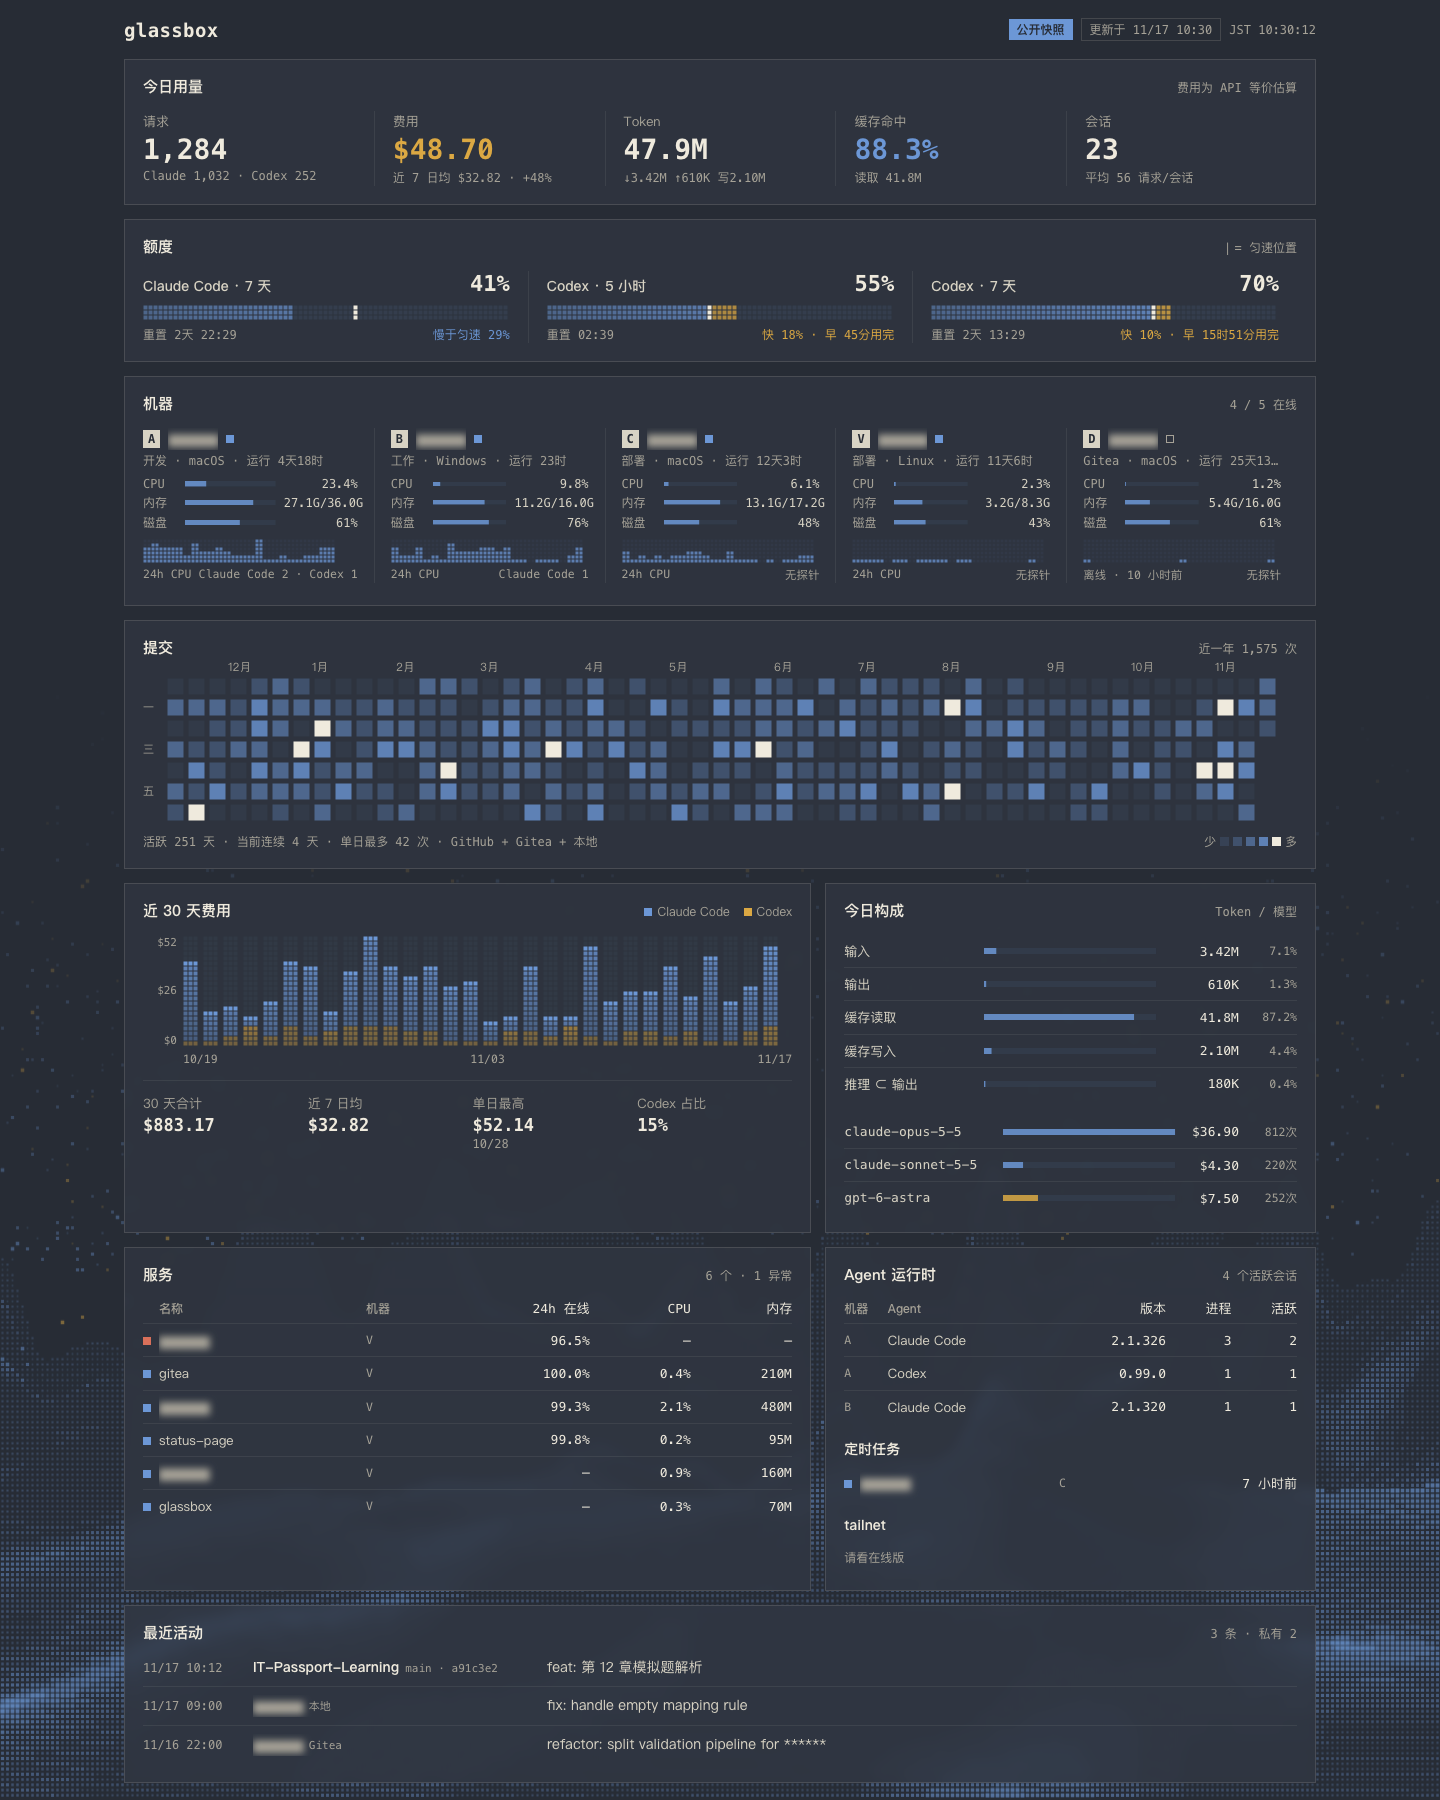
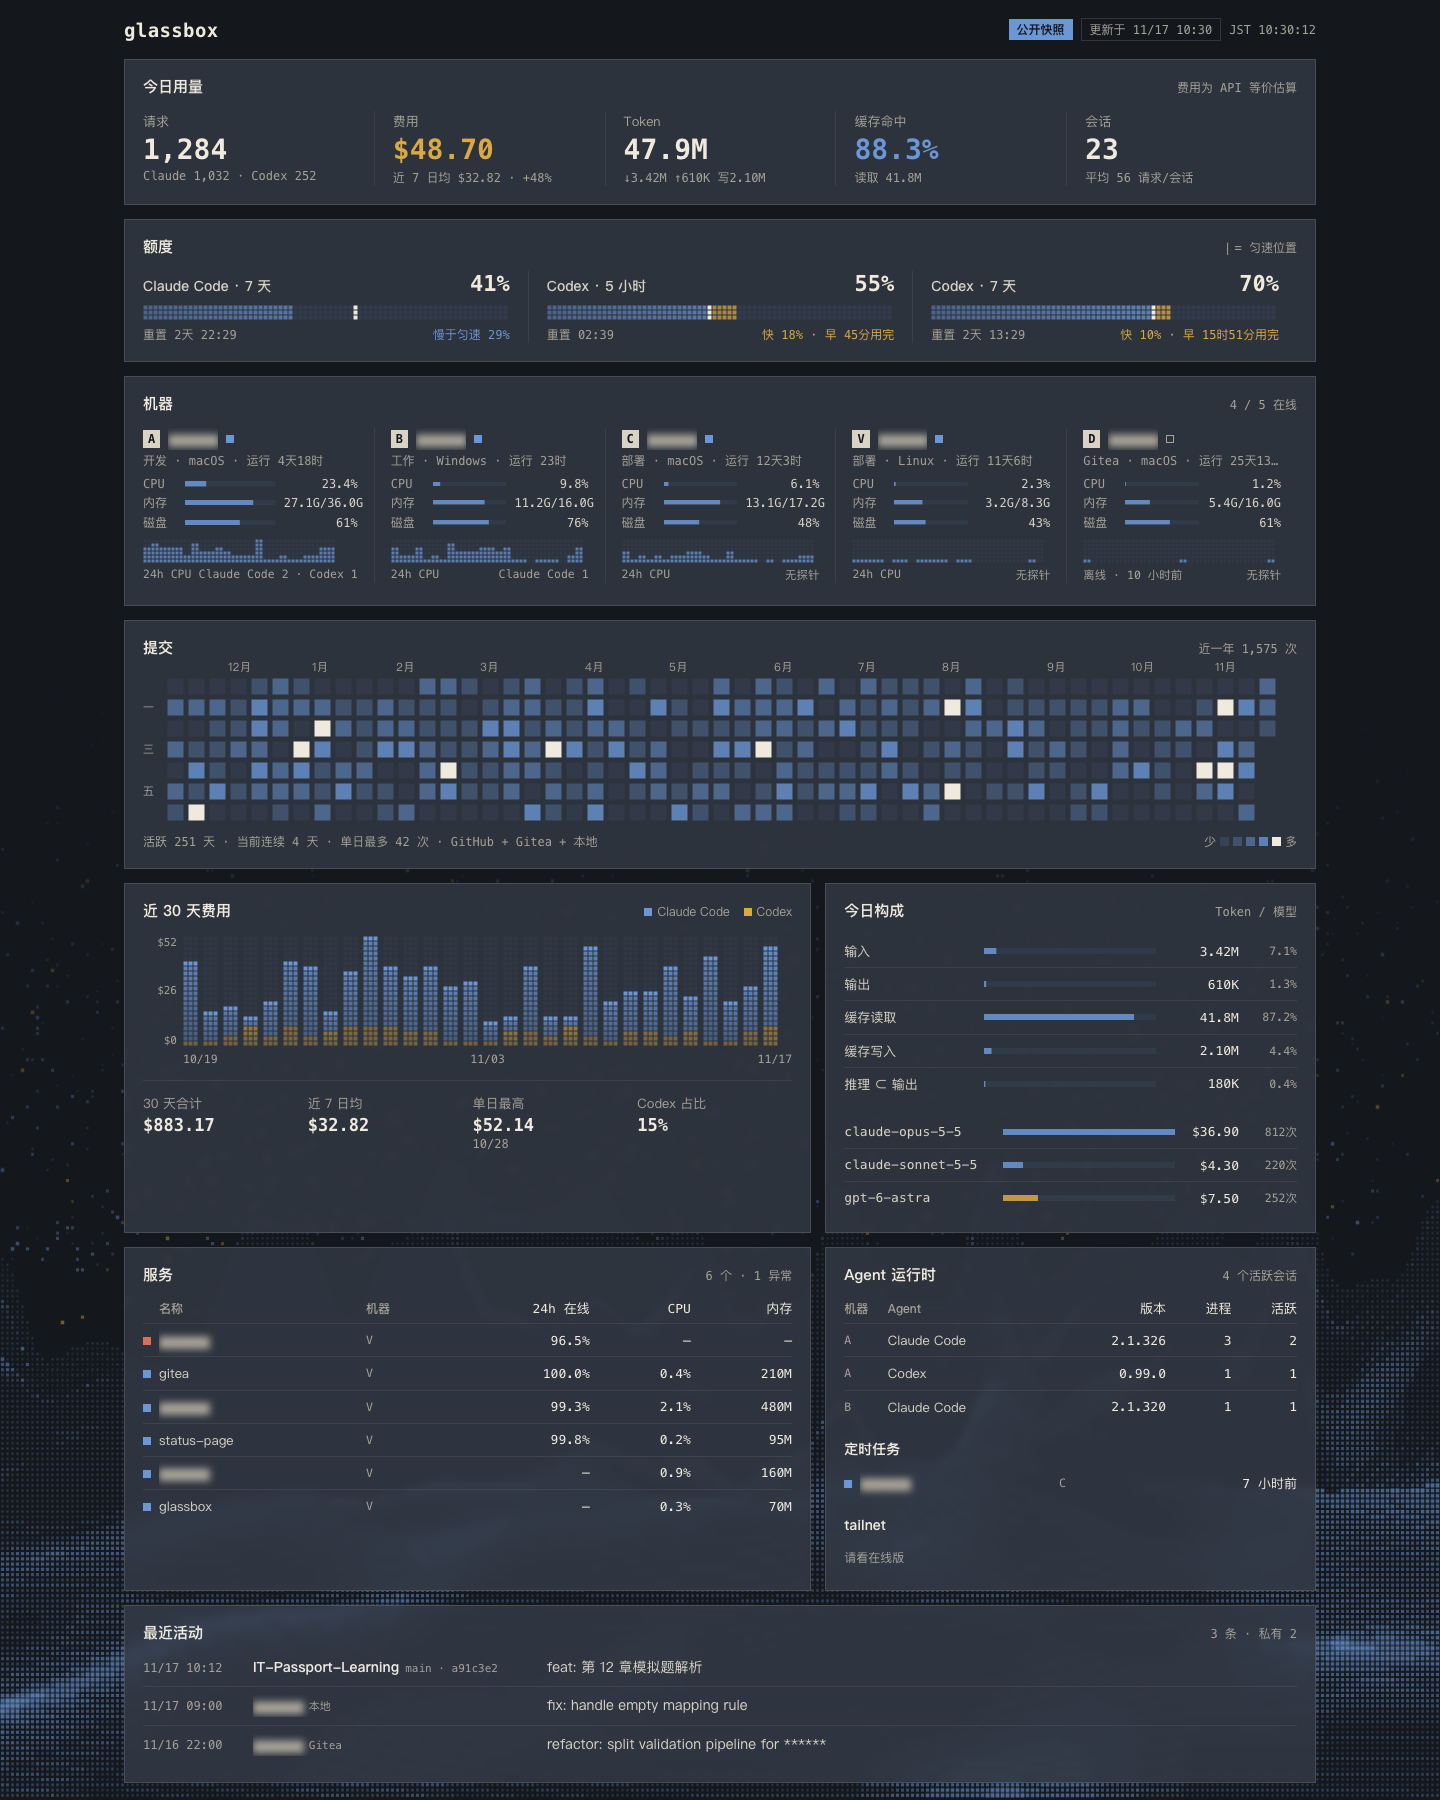
design: c-v7 darker still; translucent panels show the moving background
Claude-Session: https://claude.ai/code/session_01DWp6Vw21kF1gRiFBStCpA5

Changed region(s): [[0.0, 0.0, 1.0, 1.0]]

diff --git a/design/mockups/c-v7.html b/design/mockups/c-v7.html
@@ -9,7 +9,7 @@
   C-v7 = C-v6（slate）+ 机器、服务、Agent 运行时、tailnet、定时任务。
   - 直接读 glassbox.page/1（schema/CONTRACT.md §2）。数据：sample-page.js（generate.py 生成，虚构）。
   - ?view=public 看公开快照：私有名字是导出时就替换掉的占位块，再加模糊（真实文本不在页面里）。
-  - ?theme=slate（默认：暗底 + 原色面板）|slate0（上一版）|graphite|ink、?t=秒（冻结背景帧）、?fx=crt。
+  - ?theme=slate（默认：更暗的底 + 半透明面板）|slate1（上一版）|slate0（再上一版）|graphite|ink、?t=秒（冻结背景帧）、?fx=crt。
 -->
 <style>
   :root{
@@ -20,8 +20,10 @@
   }
   :root[data-theme="graphite"]{--bg:#1d2129;--panel:rgba(37,42,52,.72);--dim:#9b978c;--line:rgba(216,211,196,.14);--soft:rgba(216,211,196,.08)}
   :root[data-theme="slate0"]{--bg:#272c35;--panel:rgba(48,54,65,.7);--dim:#a6a297;--line:rgba(216,211,196,.16);--soft:rgba(216,211,196,.09)}
-  /* slate（默认）：底色压暗，面板保持原来看到的颜色（#2d333d，即旧版半透明面板叠在 #272c35 上的结果），几乎不透明 */
-  :root[data-theme="slate"]{--bg:#1b1f26;--panel:rgba(45,51,61,.94);--dim:#a6a297;--line:rgba(216,211,196,.16);--soft:rgba(216,211,196,.09)}
+  :root[data-theme="slate1"]{--bg:#1b1f26;--panel:rgba(45,51,61,.94);--dim:#a6a297;--line:rgba(216,211,196,.16);--soft:rgba(216,211,196,.09)}
+  /* slate（默认）：更暗的底；面板 75% 不透明，颜色按底色反推，使空白处看起来仍是 #2d333d，
+     而背景的流动能透过面板看到（模糊减半，保留形状） */
+  :root[data-theme="slate"]{--bg:#14171c;--panel:rgba(53,60,72,.75);--blur:3px;--dim:#a6a297;--line:rgba(216,211,196,.16);--soft:rgba(216,211,196,.09)}
   *{box-sizing:border-box}
   html{background:var(--bg)}
   body{margin:0;min-height:100vh;color:var(--text);font:14px/1.55 var(--sans);overflow-x:hidden;background:var(--bg);-webkit-font-smoothing:antialiased}
@@ -38,7 +40,7 @@
   .chip.line{background:none;color:var(--dim);border:1px solid var(--line);font-weight:400}
 
   .pn{background:var(--panel);border:1px solid var(--line);padding:16px 18px 18px;margin-bottom:14px;
-    -webkit-backdrop-filter:blur(6px);backdrop-filter:blur(6px);min-width:0}
+    -webkit-backdrop-filter:blur(var(--blur,6px));backdrop-filter:blur(var(--blur,6px));min-width:0}
   .ph{display:flex;justify-content:space-between;align-items:baseline;gap:12px;margin-bottom:14px}
   .ph h2{margin:0;font:600 15px var(--sans);color:var(--hi)}
   .ph .r{font:12px var(--mono);color:var(--dim);white-space:nowrap}

diff --git a/design/ASCII_STYLE_NOTES.md b/design/ASCII_STYLE_NOTES.md
@@ -98,3 +98,4 @@
 - 2026-11-17 用户定底色：**slate**（#272c35），c-v6 默认改为 slate。
 - 2026-11-17 S09：C-v7（`design/mockups/c-v7.html`）= C-v6（slate）+ 机器（每台：代号、角色、系统、在线状态、CPU/内存/磁盘条、24h CPU 格点、探针状态）、服务（一个服务一行：状态、24h 在线率、CPU、内存）、Agent 运行时、定时任务、tailnet；"GitHub 贡献"改名为"提交"（含 GitHub、Gitea、本地）。直接读 glassbox.page/1；`?view=public` 显示公开快照的模糊占位。截图 `shots/c-v7-{private,public}-full.png`、`c-v7-mobile.png`。
 - 2026-11-17 用户："背景暗一点，每个组件保持这个颜色"。slate 改为底色 #1b1f26，面板固定为旧版视觉色 #2d333d（rgba(45,51,61,.94)，几乎不透明）；旧版保留为 `?theme=slate0`，截图 `shots/c-v7-slate0-full.png`。
+- 2026-11-17 用户："背景再暗一点，面板透明度调高，想透过面板看到背景变化"。slate 改为底色 #14171c；面板 rgba(53,60,72,.75)（颜色按底色反推，空白处仍约为 #2d333d），背景模糊从 6px 减到 3px，地形和光点的形状能透过面板看到。上一版 `?theme=slate1`。
